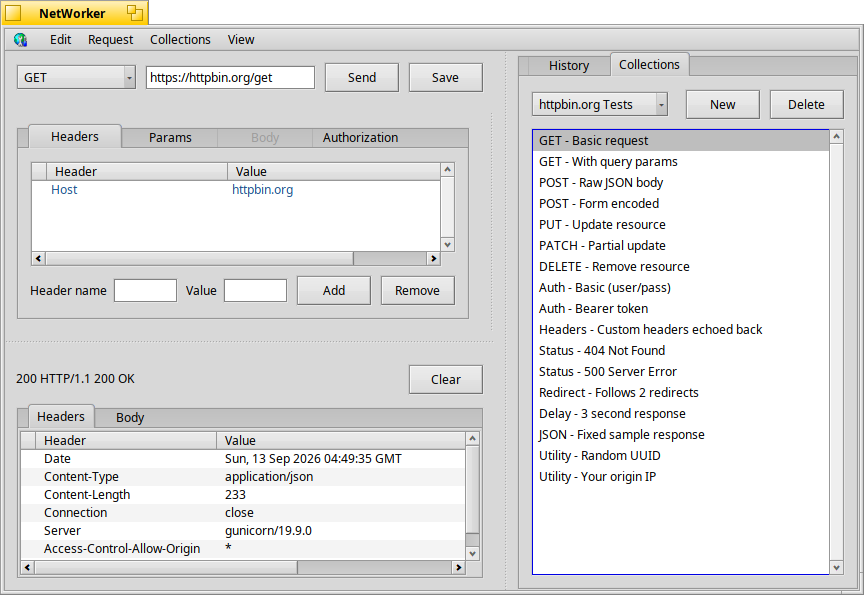
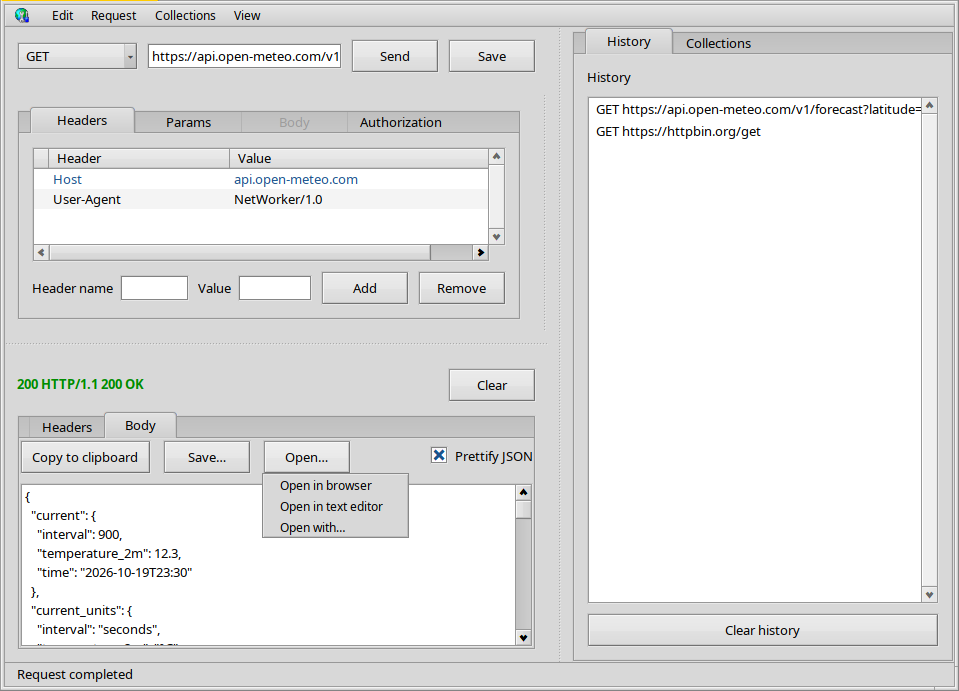
New screenshot and version bump

diff --git a/README.md b/README.md
@@ -8,6 +8,7 @@ Built using the `netservices2` library.
 
 Compose a request with method, URL, headers, form parameters, or a raw body, authenticate with Basic, Bearer, or API key auth. Each request is saved in a history list, and can be restored.
 
+View the response, prettify JSON responses, and copy, save or open the response in your default browser, text editor or in any other application of your choice.
 ---
 
 ## Features
@@ -31,6 +32,8 @@ Compose a request with method, URL, headers, form parameters, or a raw body, aut
   - Status line
   - Response headers in a sortable column list
   - Response body view
+  - Prettify JSON response
+  - Copy, save or open the response in the default browser, text-editor or in any application
 
 - **History**
   - Auto-populated on every send (method, URL, body, params, and auth recorded)
